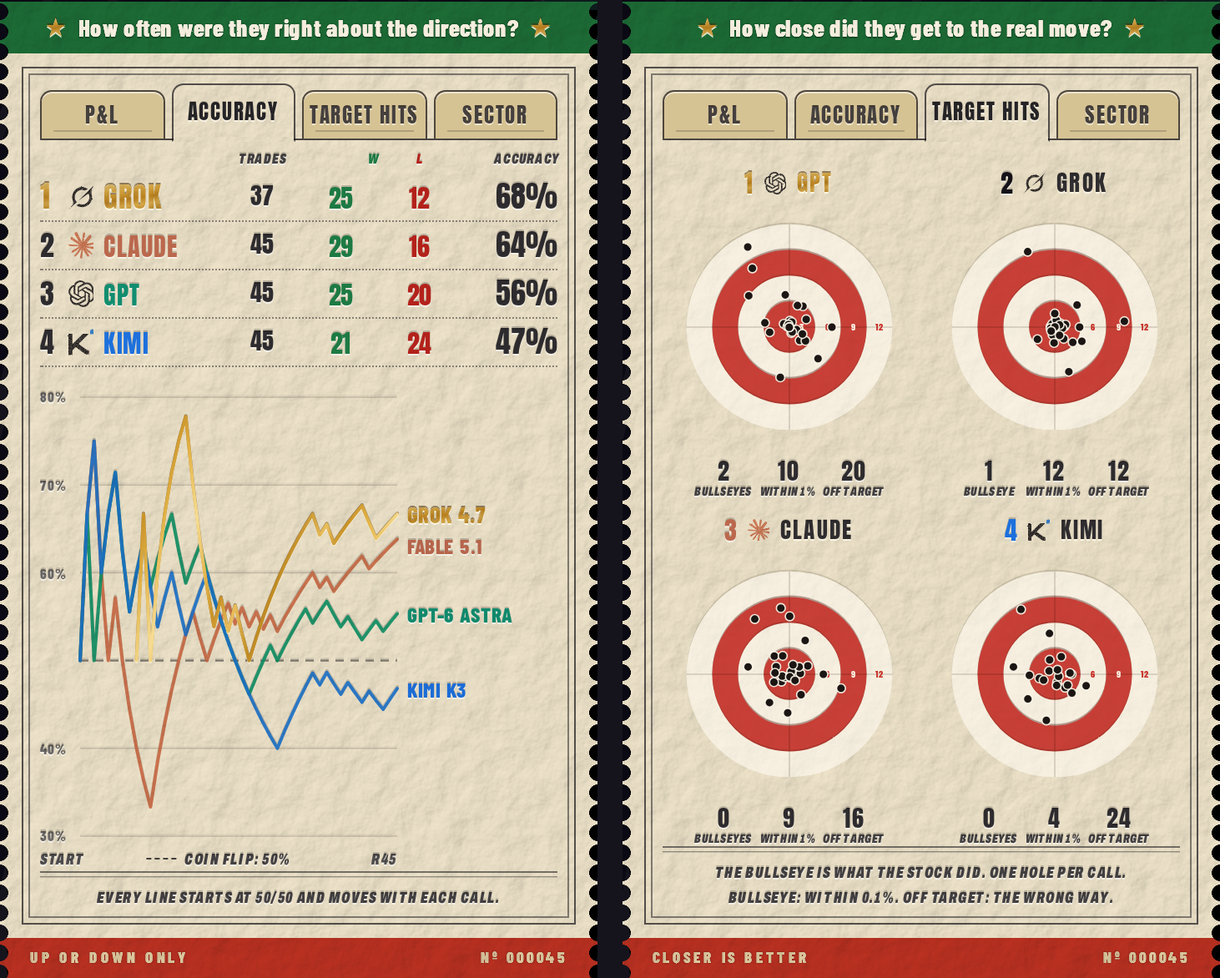
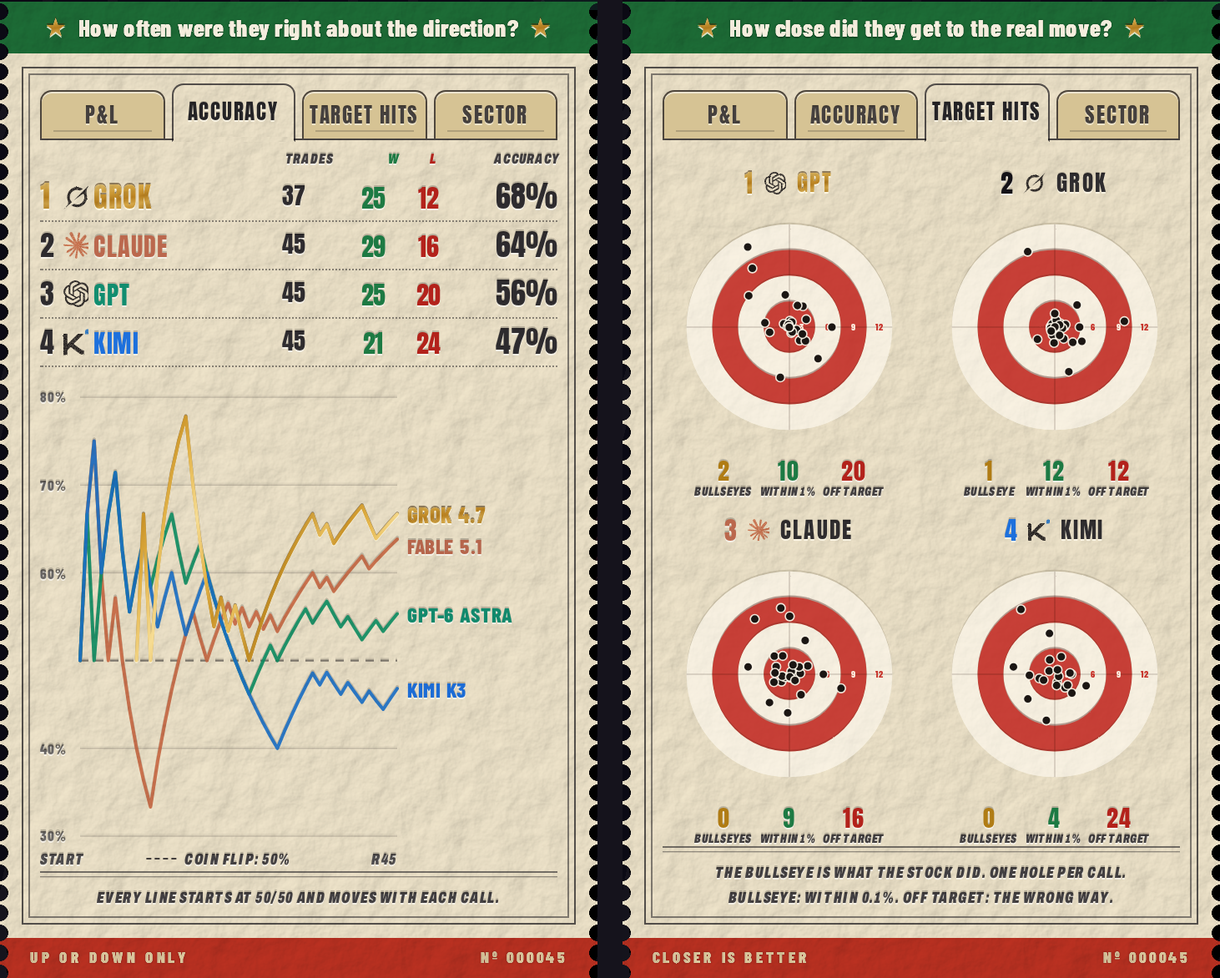
X2+: Accuracy column spacing from the owner's sketch; Target hits counts in gold, green, red
Claude-Session: https://claude.ai/code/session_01KWvAje4hnkBCpPe6R47PoY

diff --git a/ez/tools/v22/skin-x2plus.css b/ez/tools/v22/skin-x2plus.css
@@ -2189,6 +2189,19 @@ html.x2p.x2d[data-theme] #learn .x2p-pt .lp.pt-3.pn-acc .pt-r>.pn-hv.pn-hg{color
  html.x2p.x2d[data-theme] #learn .x2p-pt .lp.pt-3.pn-acc .pt-r>:is(.pn-wv,.pn-lv){font-size:19px!important}html.x2p.x2d[data-theme] #learn .x2p-pt .lp.pt-3.pn-acc .pt-r>.pn-hv{font-size:23px!important}}
 /* Target hits counts in their colours: bullseyes gold, within 1% green, off target red */
 html.x2p #learn .pt-tg .pt-ts b.pt-bu{color:rgba(168,118,22,.98)}html.x2p #learn .pt-tg .pt-ts b.pt-w1{color:#1d7a43}
+/* (owner, 2026-10-26, later, from a second sketch) the columns packed to the right: Trades nearer W, W and L close together, and
+   the space from Trades to W the same as from L to Accuracy (the gaps are measured between the figures, --g wide; W to L --e) */
+html.x2p.x2d[data-theme] #learn .x2p-pt .lp.pt-3.pn-acc :is(.pt-r,.pt-hd){grid-template-columns:12px 20px minmax(0,1fr) auto auto auto auto!important;column-gap:0!important;--g:30px;--e:12px}
+html.x2p.x2d[data-theme] #learn .x2p-pt .lp.pt-3.pn-acc .pt-r>.pn-tr,html.x2p.x2d[data-theme] #learn .x2p-pt .lp.pt-3.pn-acc .pt-hd>span:nth-of-type(1){margin-right:var(--g)!important;margin-left:6px!important;justify-self:center;text-align:center}
+html.x2p.x2d[data-theme] #learn .x2p-pt .lp.pt-3.pn-acc .pt-r>.pn-wv,html.x2p.x2d[data-theme] #learn .x2p-pt .lp.pt-3.pn-acc .pt-hd>span:nth-of-type(2){margin-right:var(--e)!important;justify-self:center;text-align:center}
+html.x2p.x2d[data-theme] #learn .x2p-pt .lp.pt-3.pn-acc .pt-r>.pn-lv,html.x2p.x2d[data-theme] #learn .x2p-pt .lp.pt-3.pn-acc .pt-hd>span:nth-of-type(3){margin-right:var(--g)!important;justify-self:center;text-align:center}
+html.x2p.x2d[data-theme] #learn .x2p-pt .lp.pt-3.pn-acc .pt-r>:is(.pn-wv,.pn-lv),html.x2p.x2d[data-theme] #learn .x2p-pt .lp.pt-3.pn-acc .pt-hd>span:is(:nth-of-type(2),:nth-of-type(3)){min-width:1.4em}
+@media (max-width:379.98px){html.x2p.x2d[data-theme] #learn .x2p-pt .lp.pt-3.pn-acc :is(.pt-r,.pt-hd){grid-template-columns:11px 17px minmax(0,1fr) auto auto auto auto!important;--g:22px;--e:9px}}
+@media (min-width:760px){html.x2p.x2d[data-theme] #learn .x2p-pt .lp.pt-3.pn-acc :is(.pt-r,.pt-hd){grid-template-columns:14px 24px minmax(0,1fr) auto auto auto auto!important;--g:48px;--e:20px}}
+/* the Target hits counts in their colours (the proof's print rules outranked the first try) */
+html.x2p.x2d[data-theme] #learn .x2p-pt .pt-body .pt-tg .pt-ts b.pt-bu.pt-bu.pt-bu.pt-bu.pt-bu{color:rgba(176,124,20,1)!important;-webkit-text-fill-color:currentColor!important}
+html.x2p.x2d[data-theme] #learn .x2p-pt .pt-body .pt-tg .pt-ts b.pt-w1.pt-w1.pt-w1.pt-w1.pt-w1{color:#1d7a43!important;-webkit-text-fill-color:currentColor!important}
+html.x2p.x2d[data-theme] #learn .x2p-pt .pt-body .pt-tg .pt-ts b.pt-ot.pt-ot.pt-ot.pt-ot.pt-ot{color:#b3221b!important;-webkit-text-fill-color:currentColor!important}
 /*}PNL*/
 /* Biggest W / Biggest L labels on one line on the narrowest phones */
 @media (max-width:379.98px){html.x2p.x2d[data-theme] #learn .x2p-pt .lp.pt-3 .pt-hd:has(.pn-w) span{white-space:nowrap;letter-spacing:.05em!important;margin-right:0}}

diff --git a/ez/v46-live-x2plus.html b/ez/v46-live-x2plus.html
@@ -6649,6 +6649,19 @@ html.x2p.x2d[data-theme] #learn .x2p-pt .lp.pt-3.pn-acc .pt-r>.pn-hv.pn-hg{color
  html.x2p.x2d[data-theme] #learn .x2p-pt .lp.pt-3.pn-acc .pt-r>:is(.pn-wv,.pn-lv){font-size:19px!important}html.x2p.x2d[data-theme] #learn .x2p-pt .lp.pt-3.pn-acc .pt-r>.pn-hv{font-size:23px!important}}
 /* Target hits counts in their colours: bullseyes gold, within 1% green, off target red */
 html.x2p #learn .pt-tg .pt-ts b.pt-bu{color:rgba(168,118,22,.98)}html.x2p #learn .pt-tg .pt-ts b.pt-w1{color:#1d7a43}
+/* (owner, 2026-10-26, later, from a second sketch) the columns packed to the right: Trades nearer W, W and L close together, and
+   the space from Trades to W the same as from L to Accuracy (the gaps are measured between the figures, --g wide; W to L --e) */
+html.x2p.x2d[data-theme] #learn .x2p-pt .lp.pt-3.pn-acc :is(.pt-r,.pt-hd){grid-template-columns:12px 20px minmax(0,1fr) auto auto auto auto!important;column-gap:0!important;--g:30px;--e:12px}
+html.x2p.x2d[data-theme] #learn .x2p-pt .lp.pt-3.pn-acc .pt-r>.pn-tr,html.x2p.x2d[data-theme] #learn .x2p-pt .lp.pt-3.pn-acc .pt-hd>span:nth-of-type(1){margin-right:var(--g)!important;margin-left:6px!important;justify-self:center;text-align:center}
+html.x2p.x2d[data-theme] #learn .x2p-pt .lp.pt-3.pn-acc .pt-r>.pn-wv,html.x2p.x2d[data-theme] #learn .x2p-pt .lp.pt-3.pn-acc .pt-hd>span:nth-of-type(2){margin-right:var(--e)!important;justify-self:center;text-align:center}
+html.x2p.x2d[data-theme] #learn .x2p-pt .lp.pt-3.pn-acc .pt-r>.pn-lv,html.x2p.x2d[data-theme] #learn .x2p-pt .lp.pt-3.pn-acc .pt-hd>span:nth-of-type(3){margin-right:var(--g)!important;justify-self:center;text-align:center}
+html.x2p.x2d[data-theme] #learn .x2p-pt .lp.pt-3.pn-acc .pt-r>:is(.pn-wv,.pn-lv),html.x2p.x2d[data-theme] #learn .x2p-pt .lp.pt-3.pn-acc .pt-hd>span:is(:nth-of-type(2),:nth-of-type(3)){min-width:1.4em}
+@media (max-width:379.98px){html.x2p.x2d[data-theme] #learn .x2p-pt .lp.pt-3.pn-acc :is(.pt-r,.pt-hd){grid-template-columns:11px 17px minmax(0,1fr) auto auto auto auto!important;--g:22px;--e:9px}}
+@media (min-width:760px){html.x2p.x2d[data-theme] #learn .x2p-pt .lp.pt-3.pn-acc :is(.pt-r,.pt-hd){grid-template-columns:14px 24px minmax(0,1fr) auto auto auto auto!important;--g:48px;--e:20px}}
+/* the Target hits counts in their colours (the proof's print rules outranked the first try) */
+html.x2p.x2d[data-theme] #learn .x2p-pt .pt-body .pt-tg .pt-ts b.pt-bu.pt-bu.pt-bu.pt-bu.pt-bu{color:rgba(176,124,20,1)!important;-webkit-text-fill-color:currentColor!important}
+html.x2p.x2d[data-theme] #learn .x2p-pt .pt-body .pt-tg .pt-ts b.pt-w1.pt-w1.pt-w1.pt-w1.pt-w1{color:#1d7a43!important;-webkit-text-fill-color:currentColor!important}
+html.x2p.x2d[data-theme] #learn .x2p-pt .pt-body .pt-tg .pt-ts b.pt-ot.pt-ot.pt-ot.pt-ot.pt-ot{color:#b3221b!important;-webkit-text-fill-color:currentColor!important}
 /*}PNL*/
 /* Biggest W / Biggest L labels on one line on the narrowest phones */
 @media (max-width:379.98px){html.x2p.x2d[data-theme] #learn .x2p-pt .lp.pt-3 .pt-hd:has(.pn-w) span{white-space:nowrap;letter-spacing:.05em!important;margin-right:0}}

diff --git a/ez/v47-live-x3plus.html b/ez/v47-live-x3plus.html
@@ -6629,6 +6629,19 @@ html.x2p.x2d[data-theme] #learn .x2p-pt .lp.pt-3.pn-acc .pt-r>.pn-hv.pn-hg{color
  html.x2p.x2d[data-theme] #learn .x2p-pt .lp.pt-3.pn-acc .pt-r>:is(.pn-wv,.pn-lv){font-size:19px!important}html.x2p.x2d[data-theme] #learn .x2p-pt .lp.pt-3.pn-acc .pt-r>.pn-hv{font-size:23px!important}}
 /* Target hits counts in their colours: bullseyes gold, within 1% green, off target red */
 html.x2p #learn .pt-tg .pt-ts b.pt-bu{color:rgba(168,118,22,.98)}html.x2p #learn .pt-tg .pt-ts b.pt-w1{color:#1d7a43}
+/* (owner, 2026-10-26, later, from a second sketch) the columns packed to the right: Trades nearer W, W and L close together, and
+   the space from Trades to W the same as from L to Accuracy (the gaps are measured between the figures, --g wide; W to L --e) */
+html.x2p.x2d[data-theme] #learn .x2p-pt .lp.pt-3.pn-acc :is(.pt-r,.pt-hd){grid-template-columns:12px 20px minmax(0,1fr) auto auto auto auto!important;column-gap:0!important;--g:30px;--e:12px}
+html.x2p.x2d[data-theme] #learn .x2p-pt .lp.pt-3.pn-acc .pt-r>.pn-tr,html.x2p.x2d[data-theme] #learn .x2p-pt .lp.pt-3.pn-acc .pt-hd>span:nth-of-type(1){margin-right:var(--g)!important;margin-left:6px!important;justify-self:center;text-align:center}
+html.x2p.x2d[data-theme] #learn .x2p-pt .lp.pt-3.pn-acc .pt-r>.pn-wv,html.x2p.x2d[data-theme] #learn .x2p-pt .lp.pt-3.pn-acc .pt-hd>span:nth-of-type(2){margin-right:var(--e)!important;justify-self:center;text-align:center}
+html.x2p.x2d[data-theme] #learn .x2p-pt .lp.pt-3.pn-acc .pt-r>.pn-lv,html.x2p.x2d[data-theme] #learn .x2p-pt .lp.pt-3.pn-acc .pt-hd>span:nth-of-type(3){margin-right:var(--g)!important;justify-self:center;text-align:center}
+html.x2p.x2d[data-theme] #learn .x2p-pt .lp.pt-3.pn-acc .pt-r>:is(.pn-wv,.pn-lv),html.x2p.x2d[data-theme] #learn .x2p-pt .lp.pt-3.pn-acc .pt-hd>span:is(:nth-of-type(2),:nth-of-type(3)){min-width:1.4em}
+@media (max-width:379.98px){html.x2p.x2d[data-theme] #learn .x2p-pt .lp.pt-3.pn-acc :is(.pt-r,.pt-hd){grid-template-columns:11px 17px minmax(0,1fr) auto auto auto auto!important;--g:22px;--e:9px}}
+@media (min-width:760px){html.x2p.x2d[data-theme] #learn .x2p-pt .lp.pt-3.pn-acc :is(.pt-r,.pt-hd){grid-template-columns:14px 24px minmax(0,1fr) auto auto auto auto!important;--g:48px;--e:20px}}
+/* the Target hits counts in their colours (the proof's print rules outranked the first try) */
+html.x2p.x2d[data-theme] #learn .x2p-pt .pt-body .pt-tg .pt-ts b.pt-bu.pt-bu.pt-bu.pt-bu.pt-bu{color:rgba(176,124,20,1)!important;-webkit-text-fill-color:currentColor!important}
+html.x2p.x2d[data-theme] #learn .x2p-pt .pt-body .pt-tg .pt-ts b.pt-w1.pt-w1.pt-w1.pt-w1.pt-w1{color:#1d7a43!important;-webkit-text-fill-color:currentColor!important}
+html.x2p.x2d[data-theme] #learn .x2p-pt .pt-body .pt-tg .pt-ts b.pt-ot.pt-ot.pt-ot.pt-ot.pt-ot{color:#b3221b!important;-webkit-text-fill-color:currentColor!important}
 /*}PNL*/
 /* Biggest W / Biggest L labels on one line on the narrowest phones */
 @media (max-width:379.98px){html.x2p.x2d[data-theme] #learn .x2p-pt .lp.pt-3 .pt-hd:has(.pn-w) span{white-space:nowrap;letter-spacing:.05em!important;margin-right:0}}

diff --git a/CLAUDE.md b/CLAUDE.md
@@ -81,7 +81,7 @@
 - **P&L round, a trading competition between AIs (owner, 2026-10-26, after a friend's feedback: pump.fun traders think in P&L; "replicate trading competitions"; the deeper analytics can become a section for traditional-finance people later; mockups, waiting for the owner; the MVP "money" options A to D above are superseded):** `ez/x2p-pnl-standings.png`, `-proof.png`, `-mvp.png` (390px) and `-desktop` versions; files `ez/tools/concepts/pnl.js` (`node pnl.js std|proof|mvp [widths]`) and `pnl/` (`_sim.js` one account per AI, exactly the proof's ROI tab: $100,000 to start, the whole balance on every call, no leverage; `_board.py`). Standings: SA "Last 5" -> Record (W-L, a W = a call that got the direction right: Grok 25-12, Claude 29-16, GPT 25-20, Kimi 21-24), "ROI" -> P&L in dollars (+$37,314 / +$44,000 / +$20,828 / −$33,017, % under it), "Hit rate" -> Accuracy ("on direction" kept); SB adds the current streak (W3) and the rules strap in a trading voice ("4 AIs paper-trade every earnings report." / "$100K account each. Graded at the close." / "Top accuracy makes the buyback call."). Proof: tabs P&L, Accuracy, Avg miss, Sector; P&L rows Biggest W / Biggest L / P&L (Claude +$13.6K BE / −$13.9K CCL; Grok +$13.1K LRCX / −$16.5K ACN; GPT +$14.7K CCL / −$20.3K ACN; Kimi +$14.2K CCL / −$19.7K ACN), the chart's line ends print the P&L % in place of the model; Sector: the best right/made ratio per row crowned (ties share; none when all four tie, Materials), gold cells or crowns with the rest dimmed. MVP backs: no "Think of it this way", the deck plus one punch line ("They all got wrecked."), then M1 a ledger of each AI's P&L on the call (long/short, the star crowned), M2 a P&L card as traders screenshot them (the bullseye AI's +$4,177, or the table's combined P&L: TSMC +$7,494, Accenture −$70,372), M3 won / lost columns with the table's P&L. Flagged: the owner reads the ROI tab as "$100K into every trade"; it is one account that lets wins ride (a flat $100K per call gives Claude +$43,320, Grok +$37,270, GPT +$25,780, Kimi −$33,080); the board ranks by accuracy (Grok #1 makes the buyback call) while Claude leads P&L; "W" now means right direction while a round's "winner" is the closest call; TSMC's winner Claude made less than GPT on that call (bigger account); Accenture is the biggest L for three of four AIs.
 - **The trading competition, live (owner, 2026-10-26: "go with SB... The PNL should be on the right, and the accuracy should essentially take the place of PNL... Do sector... crown only... in the top left corner... a little bit tilted to the left... Biggest L, remove the company names... just the P&L card is fine... the simulator needs to be a bit smaller... push all of that"; live on earningszn.xyz, the X2+ artifact and preview.earningszn.pages.dev the same day; X3+ carries it in its file, not republished; desktop not designed yet, the owner works on it next):** x2plus.js `window.__x2pPnl` (top of the file) is the one account per AI that the standings, the proof and the MVP backs share, exactly the proof's money view: $100,000 to start, the whole balance on every call, buy on up, short on down, no leverage, before fees; P&L = balance − $100,000; a W = a call that got the direction right. **Standings (SB):** the Last 5's field shows the record W-L in green and red ink with the current streak under it (Grok 25-12 W3, Claude 29-16 W4, GPT 25-20 W2, Kimi 21-24 W2), Accuracy (the hit rate, "on direction", #1's in the stub's gold) moved into the ROI's old 60px column, the P&L in dollars with the % under it in the last column; headers Record, Accuracy, P&L (the screen-reader "Last 5" column keeps its name); the rules strap reads "4 AIs paper-trade every earnings report." / "$100K account each. Graded at the close." / "Top accuracy makes the buyback call." (no gold before/after any more). Still ranked by accuracy, so Grok (#1, makes the buyback call) sits above Claude, who leads the P&L. **Proof:** tabs "P&L" (was ROI) and "Accuracy" (was Hit rate); the P&L rows read Biggest W · Biggest L · P&L, no company names; the P&L chart's line ends print each P&L % instead of the model; Sector: the best right/made in each row gets a small 👑 on its tinted box's top-left corner, over the edge, tilted left (ties share it, none where all tie), every other cell dimmed to .55. **MVP backs (M2):** no "Think of it this way"; under the headline and deck one punch line ("They all got wrecked." / "Everyone right. Everyone got paid." / "Kimi and GPT went long. They paid for it."), then the P&L card: the bullseye's own P&L (Grok · Short TSLA, +$4,177) or the whole table's (TSMC +$7,494, Accenture −$70,372) with "Its P&L" or "Combined P&L" small at its top right, the stock's move under it, the other AIs in a strip (one column each, the name over its P&L), and "Simulated · $100K each · no leverage" tiny at the foot ("· no leverage" drops below 360px). The call chips stay in the DOM, hidden, for the holo levels; the third level (only the calls that got the direction) now lights the P&L card and the strip's green entries. CSS: the PNL block at the end of skin-x2plus.css. Checked at 320, 360, 390 and 1280px on X2+ (and 360 on X3+): no overflow, no errors, the proof ticket builds. **For later (owner, same day; the Leaderboard tab or a Models section, after launch):** Biggest W and Biggest L with the company names (the mockups had them: Claude +$13.6K BE / −$13.9K CCL, Grok +$13.1K LRCX / −$16.5K ACN, GPT +$14.7K CCL / −$20.3K ACN, Kimi +$14.2K CCL / −$19.7K ACN); accuracy as wins ("Grok 25 wins") with the logos of the companies behind its two biggest wins; more ideas for the P&L crowd on the Leaderboard tab once the Overview's pre-launch work is done.
 - **Ranked by P&L (owner, 2026-10-26, later: "just focus on P&L for now, because that's usually whoever everybody wants to follow"; the P&L leader makes the buyback call; direction and P&L may meet at the top later, and explainers or tweets can say which model takes more risk; on the X2+ artifact and preview.earningszn.pages.dev, production waits for the owner's go):** x2plus.js (the P&L block of the standings) re-orders the tickets by P&L (an AI under half the graded rounds still goes after the rest), renumbers the stubs and moves `.lead`, the crown and the gold to the new #1 (Claude +$44,000, then Grok, GPT, Kimi); #1's gold is now on its P&L, its accuracy in ink (`.x2p-pnrank`, end of the PNL block); on phones #1's logo is the others' size and the AI field starts 12px in (Claude's name ran onto the Record line at 390px; now 6 to 17px clear from 320 to 430px). The rules strap's last line is "Top P&L makes the buyback call."; How we rank reads "Ranked by P&L: $100,000 each, the whole balance on every call." / "Buy on up, short on down. No leverage." / the grading, half-the-rounds and freeze lines / "P&L: simulated, before fees." Flagged: the P&L has no sizing (every AI bets its whole balance on every call, direction only), so Claude leads by being right on bigger moves and calling all 45 rounds (Grok skipped 8), not by sizing; the explainer film still crowns GPT as "the most accurate". **Proof P&L rows (same day):** Biggest W and Biggest L 12px (11/10 below 380/340px) in two 44px columns 4px apart, the P&L 16px right-aligned in 84px (14.5/13px), "Biggest W" with the W in green ink and "Biggest L" with the L in red. **MVP P&L card full width** (it sat right-aligned: `align-self:end` in the story side's column flexbox; now stretch). **Mockups waiting for the owner:** `ez/x2p-pnl-sizing.png` (`ez/tools/concepts/pnl2.js sizing`, `pnl2/sizing.js`): S0 today, S1 size = the call ÷ 5%, S2 tiers (under 1.5% a quarter, 1.5 to 3% half, 3%+ all). Sizing by the predicted move would have lowered every leader's P&L against a flat book of the same average size (S1: Claude +$20,858 vs +$30,308 flat, Grok +$8,404 vs +$17,942, GPT +$1,198 vs +$11,586; only Kimi gains, −$6,187 vs −$18,350): the AIs' big calls are right about as often as their small ones (Claude 14/23 vs 15/22, Grok 13/19 vs 12/18, GPT 12/23 vs 13/22, Kimi 13/23 vs 8/22), so the predicted size is not yet a conviction signal; recommended: keep direction-only now and ask each AI to state a position size from the next calls on, so sizing becomes a recorded skill. `ez/x2p-pnl-avgmiss.png` (`pnl2.js miss`, `pnl2/miss.js`, `miss.css`), Avg miss in the competition voice: M1 round wins (the sheet's own winner column, a tie counts for both: Claude 15, GPT 13, Grok 7, Kimi 6, as gold belts), M2 target hits (every call as a bar: within 1%, 1 to 3%, over 3%, wrong way; Grok 12 of 37, GPT 10 of 45, Claude 9, Kimi 4 within 1%), M3 called vs moved (each AI's calls against the real move, the diagonal a perfect call), M4 the targets kept with Bullseyes / Within 1% / Off when right under each. All fit the ticket at 360 and 390px. Research: Alpha Arena (Nof1's AI trading contest, also on Hyperliquid) reports standings as account value; TipRanks ranks analysts by success rate and average return together.
-- **Accuracy as a record, Target hits (owner, 2026-10-26, later; on the X2+ artifact and preview.earningszn.pages.dev, production waits for the owner's go):** the proof's Accuracy rows read Trades · W · L (W in green ink, L in red, header letters too; "25 of 37" gone; class `pn-acc`, pt-u/pt-d on the values for the proof's own green and red), and the hit rate prints where each line ends on the chart (68%, 64%, 56%, 47%, the raw rate as on the standings; the lines themselves still start at 50/50). The Avg miss tab is **"Target hits"**: no average miss on the captions; under each target its Bullseyes (right way, within 0.1%), Within 1% (bullseyes included) and Off target (the wrong way, the red dots outside, in red ink) (`.pt-ts`); ranked by bullseyes, then within 1%, then fewer off target, so GPT is #1 (2 bullseyes, 10 within 1%, 20 off target) over Grok (1, 12, 12), Claude (0, 9, 16), Kimi (0, 4, 24); the note reads "The bullseye is what the stock did. One hole per call. Bullseye: within 0.1%. A red dot outside: the wrong way." Board `ez/x2p-pnl-accuracy-targets.png`. Checked at 320, 360, 390 and 1280px: nothing overflows, no errors. **Then (owner, same day, from a sketch):** the Accuracy rows are Trades · W · L · Accuracy (the hit rate back as the last column, the biggest figure, #1's in gold ink), and the line ends carry the model names again (Grok 4.7 ...); Target hits has no red dots outside the targets ("too much noise"; Off target counts them), the counts in colour: bullseyes gold, within 1% green, off target red; its note ends "Off target: the wrong way." **Sizing answer (same day; owner: always 100%, "all in into every single call"):** that is what the board already does (the whole balance on every call, compounding, no leverage); the bigger version is leverage: at 2x Claude +$79,303, Grok +$67,422, GPT +$26,224, Kimi −$61,525; at 5x (the real bet's SIM.leverage) all four lose: Grok −$1,929, Claude −$11,243 (low $5,863), GPT −$62,379, Kimi −$98,371 (no move reached 17.5%, so no wipe-out, but Accenture costs 80% at 5x). Not built; the site stays at 1x.
+- **Accuracy as a record, Target hits (owner, 2026-10-26, later; on the X2+ artifact and preview.earningszn.pages.dev, production waits for the owner's go):** the proof's Accuracy rows read Trades · W · L (W in green ink, L in red, header letters too; "25 of 37" gone; class `pn-acc`, pt-u/pt-d on the values for the proof's own green and red), and the hit rate prints where each line ends on the chart (68%, 64%, 56%, 47%, the raw rate as on the standings; the lines themselves still start at 50/50). The Avg miss tab is **"Target hits"**: no average miss on the captions; under each target its Bullseyes (right way, within 0.1%), Within 1% (bullseyes included) and Off target (the wrong way, the red dots outside, in red ink) (`.pt-ts`); ranked by bullseyes, then within 1%, then fewer off target, so GPT is #1 (2 bullseyes, 10 within 1%, 20 off target) over Grok (1, 12, 12), Claude (0, 9, 16), Kimi (0, 4, 24); the note reads "The bullseye is what the stock did. One hole per call. Bullseye: within 0.1%. A red dot outside: the wrong way." Board `ez/x2p-pnl-accuracy-targets.png`. Checked at 320, 360, 390 and 1280px: nothing overflows, no errors. **Then (owner, same day, from a sketch):** the Accuracy rows are Trades · W · L · Accuracy (the hit rate back as the last column, the biggest figure, #1's in gold ink), and the line ends carry the model names again (Grok 4.7 ...); Target hits has no red dots outside the targets ("too much noise"; Off target counts them), the counts in colour: bullseyes gold, within 1% green, off target red; its note ends "Off target: the wrong way." **Then (owner, same day, a second sketch):** the Accuracy columns packed to the right with the gap from Trades to W equal to the gap from L to Accuracy (measured between the figures: 34/35px at 390px, 24/25 at 320 to 360, 52/54 at 1280) and W and L closer (20px at 390); the Target hits counts in gold, green and red (the proof's print rule had kept them in ink; the selector now repeats its class to outrank it). **Sizing answer (same day; owner: always 100%, "all in into every single call"):** that is what the board already does (the whole balance on every call, compounding, no leverage); the bigger version is leverage: at 2x Claude +$79,303, Grok +$67,422, GPT +$26,224, Kimi −$61,525; at 5x (the real bet's SIM.leverage) all four lose: Grok −$1,929, Claude −$11,243 (low $5,863), GPT −$62,379, Kimi −$98,371 (no move reached 17.5%, so no wipe-out, but Accenture costs 80% at 5x). Not built; the site stays at 1x.
 - **Rounds 45 to 47, the record back (owner, 2026-10-25; waiting for the owner):** round 45 (`ez/x2p-launch-r45-ten.png`, `launch-r40-recback/p1..p10` through `R45`): ten combinations of PASS/FAIL left or right, smaller marks, a WINNER mark, dates top or bottom, stamp top right or foot, and seals in green, red and gold (band, ticket, perfin, embosser, hallmark strip, a stub); ranks 1 to 4 on every row (right calls by closeness, then wrong calls by closeness); every word, number, logo and rule printed and pressed in (ink with the card's grain, a dark wall above, a pale lip below). Owner's verdict and new brief (same day): the mark between the name and the call; the EZ stamp the loudest thing on the card ("a lot of ink"); no degraded type (my ink-starvation mask and the Special Elite typewriter face read as "a weird, degrading ink type": both gone); Certificate and No., then straight to What they predicted, the calls, Market, then "Calls filed" left (the date under the label) and the stamp right, with "graded" only inside the stamp; wax and red foil looked cheap; then the stamps were too big and the bright metallic gold looked "cheap"; combine red, green and some gold. Round 46 (`R46`, q1..q6): that layout with heavy-ink and gold-only stamps. **Round 47** (`ez/x2p-launch-r47-stamps.png` and `-closeup.png`, `launch-r40-recback/r47*.js` through `R47`): the same card, stamps about 60px, every stamp green, red and an antique satin gold (a narrow muted gradient with the card's grain multiplied in, pressed; the winner row and stars in the same gold): 1 band seal, 2 the brand ticket, 3 perfin with a gold bar, 4 gold certificate seal with the EZ in green and red, 5 rosette (green and red pleats, gold centre), 6 double strike (green and red rings, gold words). The site already uses `.st`, `.sb`, `.top`, `.tick`, `.cg`: mockup classes carry x45/x46/x47 prefixes. Nothing overflows at 360 and 390px.
 - **Round 48 mockups, the EZ stamp as a mark of its own (owner, 2026-10-25: round 47's certificate seal was the favourite "but I'm also not the biggest fan of it"; ten researched concepts, the stamp first: memorable, "when you see that, you'll know... this has already been graded", a mark that could go "on other things... sort of like EZ proof"; Calls filed away from See the film; the winner in black or marked another way; a mix of gold, green and red, and one shinier in the red and green; waiting for the owner):** `ez/x2p-launch-r48-ten.png` (the ten on round 43's card at 390px), `-closeup.png` (4x), `-marks.jpg` (each mark off the card: upright and undated, one ink, reversed, 32 and 20px, a die-cut sticker on a round film) and `-winner.png` (winner treatments, Calls filed placement, a no-winner round); files `ez/tools/concepts/launch-r40-recback/_r48.js` (`R48`: each stamp drawn in layers, foil pressed, ink multiplied into the stock with a full strike, cuts showing what is behind the card; dated card version, undated master, one ink, reversed, sticker), `r48*.js`, `r48w-*.js`, `r48cf-sec.js`, CSS at the end of `_base.css`, and `ez/tools/concepts/launch-r48-marks.js` (the mark sheet). The card: Certificate, then "No. 0043 · Calls filed Oct 22" on one line (or Calls filed stacked at the right of What they predicted), the calls with PASS/FAIL and a pressed ink crown for the winner (the winner row in ink like the others), Market, "See the film" ("See the picture" on a still round) and the stamp. The ten: 1 the closing bell (a gold-foil bell, the EZ, AT THE CLOSE knocked out of a red band), 2 the postmark (a perforated EZ stamp cancelled by the market, the wavy lines following the round's move), 3 the warrant ("By appointment / to the market", the winner's crown in gold foil on a green and red roundel), 4 spot gloss (shiny green and red foil split along the Z's diagonal, the EZ cut out, a gold ring), 5 EZ Proof (a proof coin: mirror field, enamel EZ, gold), 6 the validation punch (the EZ cut through the card), 7 the code stamp (GRADED tab, green frame, gold date band), 8 the data seal (the ring is the first 64 bits of the SHA-256 of the round's calls and close), 9 the word stamp (EZ PROOF), 10 the advisory label (a black block, GRADED knocked out). Research (a helper, sources read 2026-10-25; the first two checked by me): colour is the hardest identity element to own and characters, logos and logotypes the easiest (Ward, Yang, Romaniuk and Beal 2020, 1,281 elements), and every trading app shares green and red, so the stamp should own a shape; a homemade seal beat every established SSL seal except Norton's in Baymard's 2023 test (looking official is cheap; the record behind it is the proof); more than two seals lowered conversion in field tests; certification marks keep an upright master, a one-colour version, clear space and a minimum size (ENERGY STAR, B Corp, USDA Organic; UL Verified pairs the mark with a unique ID and a verify address); say exactly what it certifies (Good Housekeeping and Nintendo both narrowed their seals' claims): the grading, not the AI; the Parental Advisory label had to be black and white "because it had to go on everything" and became a badge of honour (stamp the Rekt rounds too); conductors' punches were each a shape of their own; a proof finish is for the best strikes only (10s). Fixed on the way: a bare `<path id>` used for text on a path fills black (keep such paths in `<defs>`); tiny SVG type in a scaled box needs `text-rendering="geometricPrecision"` or Chrome spaces the letters unevenly ("G RADED"); a transform on the stamp's wrapper isolates it, so its ink cannot multiply into the paper (rotate the layers instead); the mockup label read "0.00% off on avg" on a round nobody called (the live site already says "0 of 4 right" alone). **Owner's verdict (same day):** none of the ten resonate; round 47's card is the layout ("the ones that I like in terms of the layout"); Calls filed belongs at the foot beside the stamp, never at the top (moving it to the number's line misread "positioned somewhere else": the owner meant away from See the film, a little higher, still at the foot).
 - **Forced dark mode (2026-10-24; owner: "everybody needs to have the same site regardless of their setup"):** a friend's Android phone showed the standings with the ink on every ticket cream on cream, the gold turned brown or dark red and the printed logos gone. That is a browser repainting a page it takes for a light one (Samsung Internet's dark mode; Chrome and in-app WebViews can do the same): text colours are lightened and flat colours darkened, while background images such as our paper texture are left alone. Reproduced the mechanism in Chromium (`--blink-settings=forceDarkModeEnabled=true` on a light control page: dark ink on a paper image turns light); our page itself stays correct there, because its root is dark, so the friend's browser decides differently (Samsung Internet up to 24 forces dark by default whatever the page says; from 25.0 its "Adaptive Force Dark" skips pages that declare their colour scheme; Samsung developer blog and forum). Fix, live on earningszn.xyz, both artifacts and both previews since 2026-10-24 (build.py, X2+ patch list): the page says dark, and only dark, everywhere it states its colours: X2's base sheet opened with `:root{color-scheme:light}` (now `dark` then `only dark`), the dark-theme rule and the inline styles the scripts set say `only dark`, plus a `prefers-color-scheme: dark` rule (older Samsung Internet looks for one); the meta tag stays `dark` (a browser that cannot read `only` in the meta would drop it). Pixel-identical in a normal browser (two live patches differ: the countdown's seconds and a loading ring). Not verified on the friend's phone; a browser that forces dark whatever the page says cannot be stopped from the page (Samsung's own reply on its forum), the visitor's fix there is Samsung Internet > Settings > Labs > "Use website dark theme", or dark mode off for the site.
